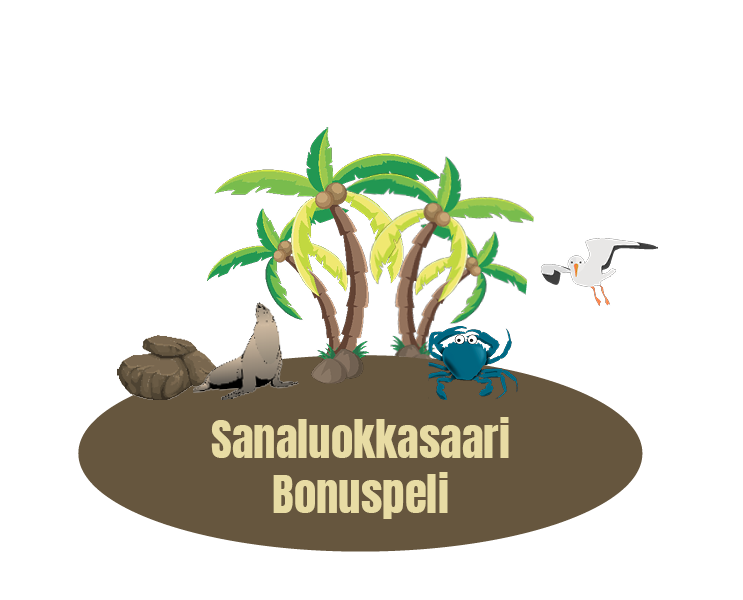
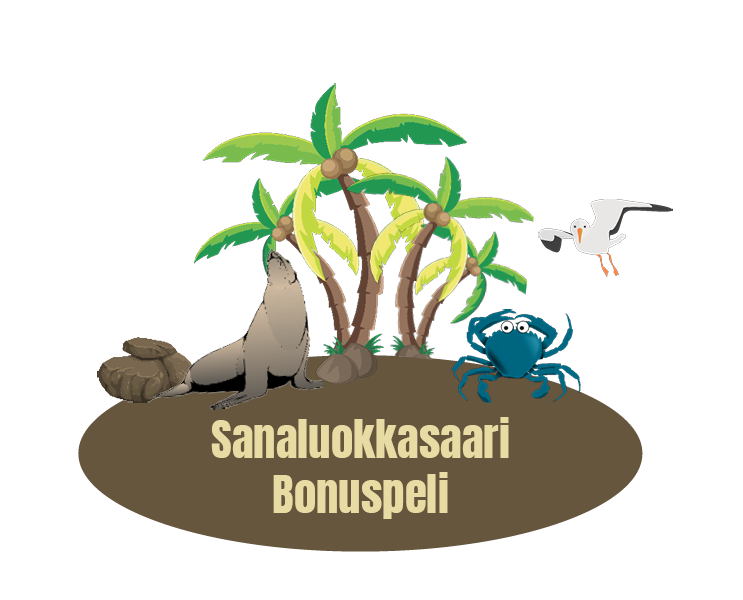
Kuvakkeet asemoitu ympyrän muotoon

Changed region(s): [[0.1238, 0.15, 0.6191, 0.69], [0.5572, 0.51, 0.7739, 0.69], [0.712, 0.33, 0.8977, 0.51]]

diff --git a/index.html b/index.html
@@ -50,39 +50,24 @@
                 </div>
         </nav>
         <div class="row m-5">
-            <div class="col-md-3 d-flex flex-column align-items-center">
-                <a href="#" class="d-inline-block">
-                    <img src="./images/etusivu/verbiviidakko_kuvake.png" alt="Kuvake" class="img-fluid" style="max-width: 70%; height: auto;">
-                </a>
-                <a href="#" class="d-inline-block">
-                    <img src="./images/etusivu/pronominiseikkailu_kuvake.png" alt="Kuvake" class="img-fluid" style="max-width: 70%; height: auto;">
-                </a>
+            <div class="col-md-7 mt-5 d-flex justify-content-start">
+                <div class="circle-layout">
+                    <img src="./images/etusivu/verbiviidakko_kuvake.png" alt="Verbiviidakko" class="icon-img">
+                    <img src="./images/etusivu/adjektiivimaailma_kuvake.png" alt="Adjektiivimaailma" class="icon-img">
+                    <img src="./images/etusivu/pronominiseikkailu_kuvake.png" alt="Pronominiseikkailu" class="icon-img">
+                    <img src="./images/etusivu/numeraaliluola_kuvake.png" alt="Numeraaliluola" class="icon-img">
+                    <img src="./images/etusivu/substantiivisavanni_kuvake.png" alt="Substantiivisavanni" class="icon-img">
+                    <img src="./images/etusivu/sanaluokkasaari_kuvake.png" alt="Sanaluokkasaari" class="icon-img">
+                </div>
             </div>
-            <div class="col-md-3 d-flex flex-column align-items-center gap-5">
-                <a href="#" class="d-inline-block mt-0">
-                    <img src="./images/etusivu/adjektiivimaailma_kuvake.png" alt="Kuvake" class="img-fluid" style="max-width: 70%; height: auto;">
-                </a>
-                <a href="#" class="d-inline-block">
-                    <img src="./images/etusivu/numeraaliluola_kuvake.png" alt="Kuvake" class="img-fluid" style="max-width: 70%; height: auto;">
-                </a>
-            </div>
-            <div class="col-md-3">
-                <a href="#" class="d-inline-block">
-                    <img src="./images/etusivu/substantiivisavanni_kuvake.png" alt="Kuvake" class="img-fluid" style="max-width: 70%; height: auto;">
-                </a>
-                <a href="#" class="d-inline-block">
-                    <img src="./images/etusivu/sanaluokkasaari_kuvake.png" alt="Kuvake" class="img-fluid" style="max-width: 70%; height: auto;">
-                </a>
-            </div>
-            <div class="col-md-3 mt-4">
-                <div class="container m-2">
-                    <div class="row-justify-content-center align-items-center">
-                        <div class="card custom-box">
-                            <div class="card-body">
-                                <h3 class="card-title anton-regular text-center">Tervetuloa Sanaseikkailuun!</h3>
-                                <p class="card-text text-center anton-regular"><br>Tällä sivustolla voit seikkailla viidakossa verbien parissa, ratkoa adjektiivien arvoituksia, kohdata pronominihaasteet, tutkia numeraaliluolaa, selvittää tietämyksesi substantiiveista ja oppia tunnistamaan eri sanaluokat! <br> <br> Klikkaa haluamaasi aihetta ja <br>aloita pelaaminen!</p>
-                            </div>
-                        </div>
+            <div class="col-md-5 d-flex justify-content-end align-items-center">
+                <div class="card custom-box">
+                    <div class="card-body">
+                        <h1 class="card-title anton-regular text-center">Tervetuloa Sanaseikkailuun!</h2>
+                        <p class="card-text text-center anton-regular">
+                            <br>Tällä sivustolla voit seikkailla viidakossa verbien parissa, ratkoa adjektiivien arvoituksia, kohdata pronominihaasteet, tutkia numeraaliluolaa, selvittää tietämyksesi substantiiveista ja oppia tunnistamaan eri sanaluokat! 
+                            <br><br> Klikkaa haluamaasi aihetta ja aloita pelaaminen!
+                        </p>
                     </div>
                 </div>
             </div>

diff --git a/css/style.css b/css/style.css
@@ -151,6 +151,61 @@ body {
   padding: 1em;
 }
 
+.icon-img {
+  max-width: 30%;
+  height: auto;
+  position: absolute;
+}
+
+.circle-layout {
+  position: fixed;
+  width: 1000px; 
+  height: 600px; 
+  margin: 0 auto;
+  border-radius: 50%; 
+}
+
+.circle-layout img:nth-child(1) {
+  top: 10%;
+  left: 50%;
+  transform: translate(-50%, -50%);
+}
+
+.circle-layout img:nth-child(2) {
+  top: 30%;
+  left: 80%;
+  transform: translate(-50%, -50%);
+}
+
+.circle-layout img:nth-child(3) {
+  top: 70%;
+  left: 80%;
+  transform: translate(-50%, -50%);
+}
+
+.circle-layout img:nth-child(4) {
+  top: 90%;
+  left: 50%;
+  transform: translate(-50%, -50%);
+}
+
+.circle-layout img:nth-child(5) {
+  top: 70%;
+  left: 20%;
+  transform: translate(-50%, -50%);
+}
+
+.circle-layout img:nth-child(6) {
+  top: 30%;
+  left: 20%;
+  transform: translate(-50%, -50%);
+}
+
+.col-md-7,
+.col-md-5 {
+    margin-bottom: 20px;
+}
+
 footer {
   background-color: var(--vihrea);
   color: var(--tummanvihrea);
@@ -166,3 +221,4 @@ footer h4 {
     font-size: 1.5rem;
   }
 }
+
